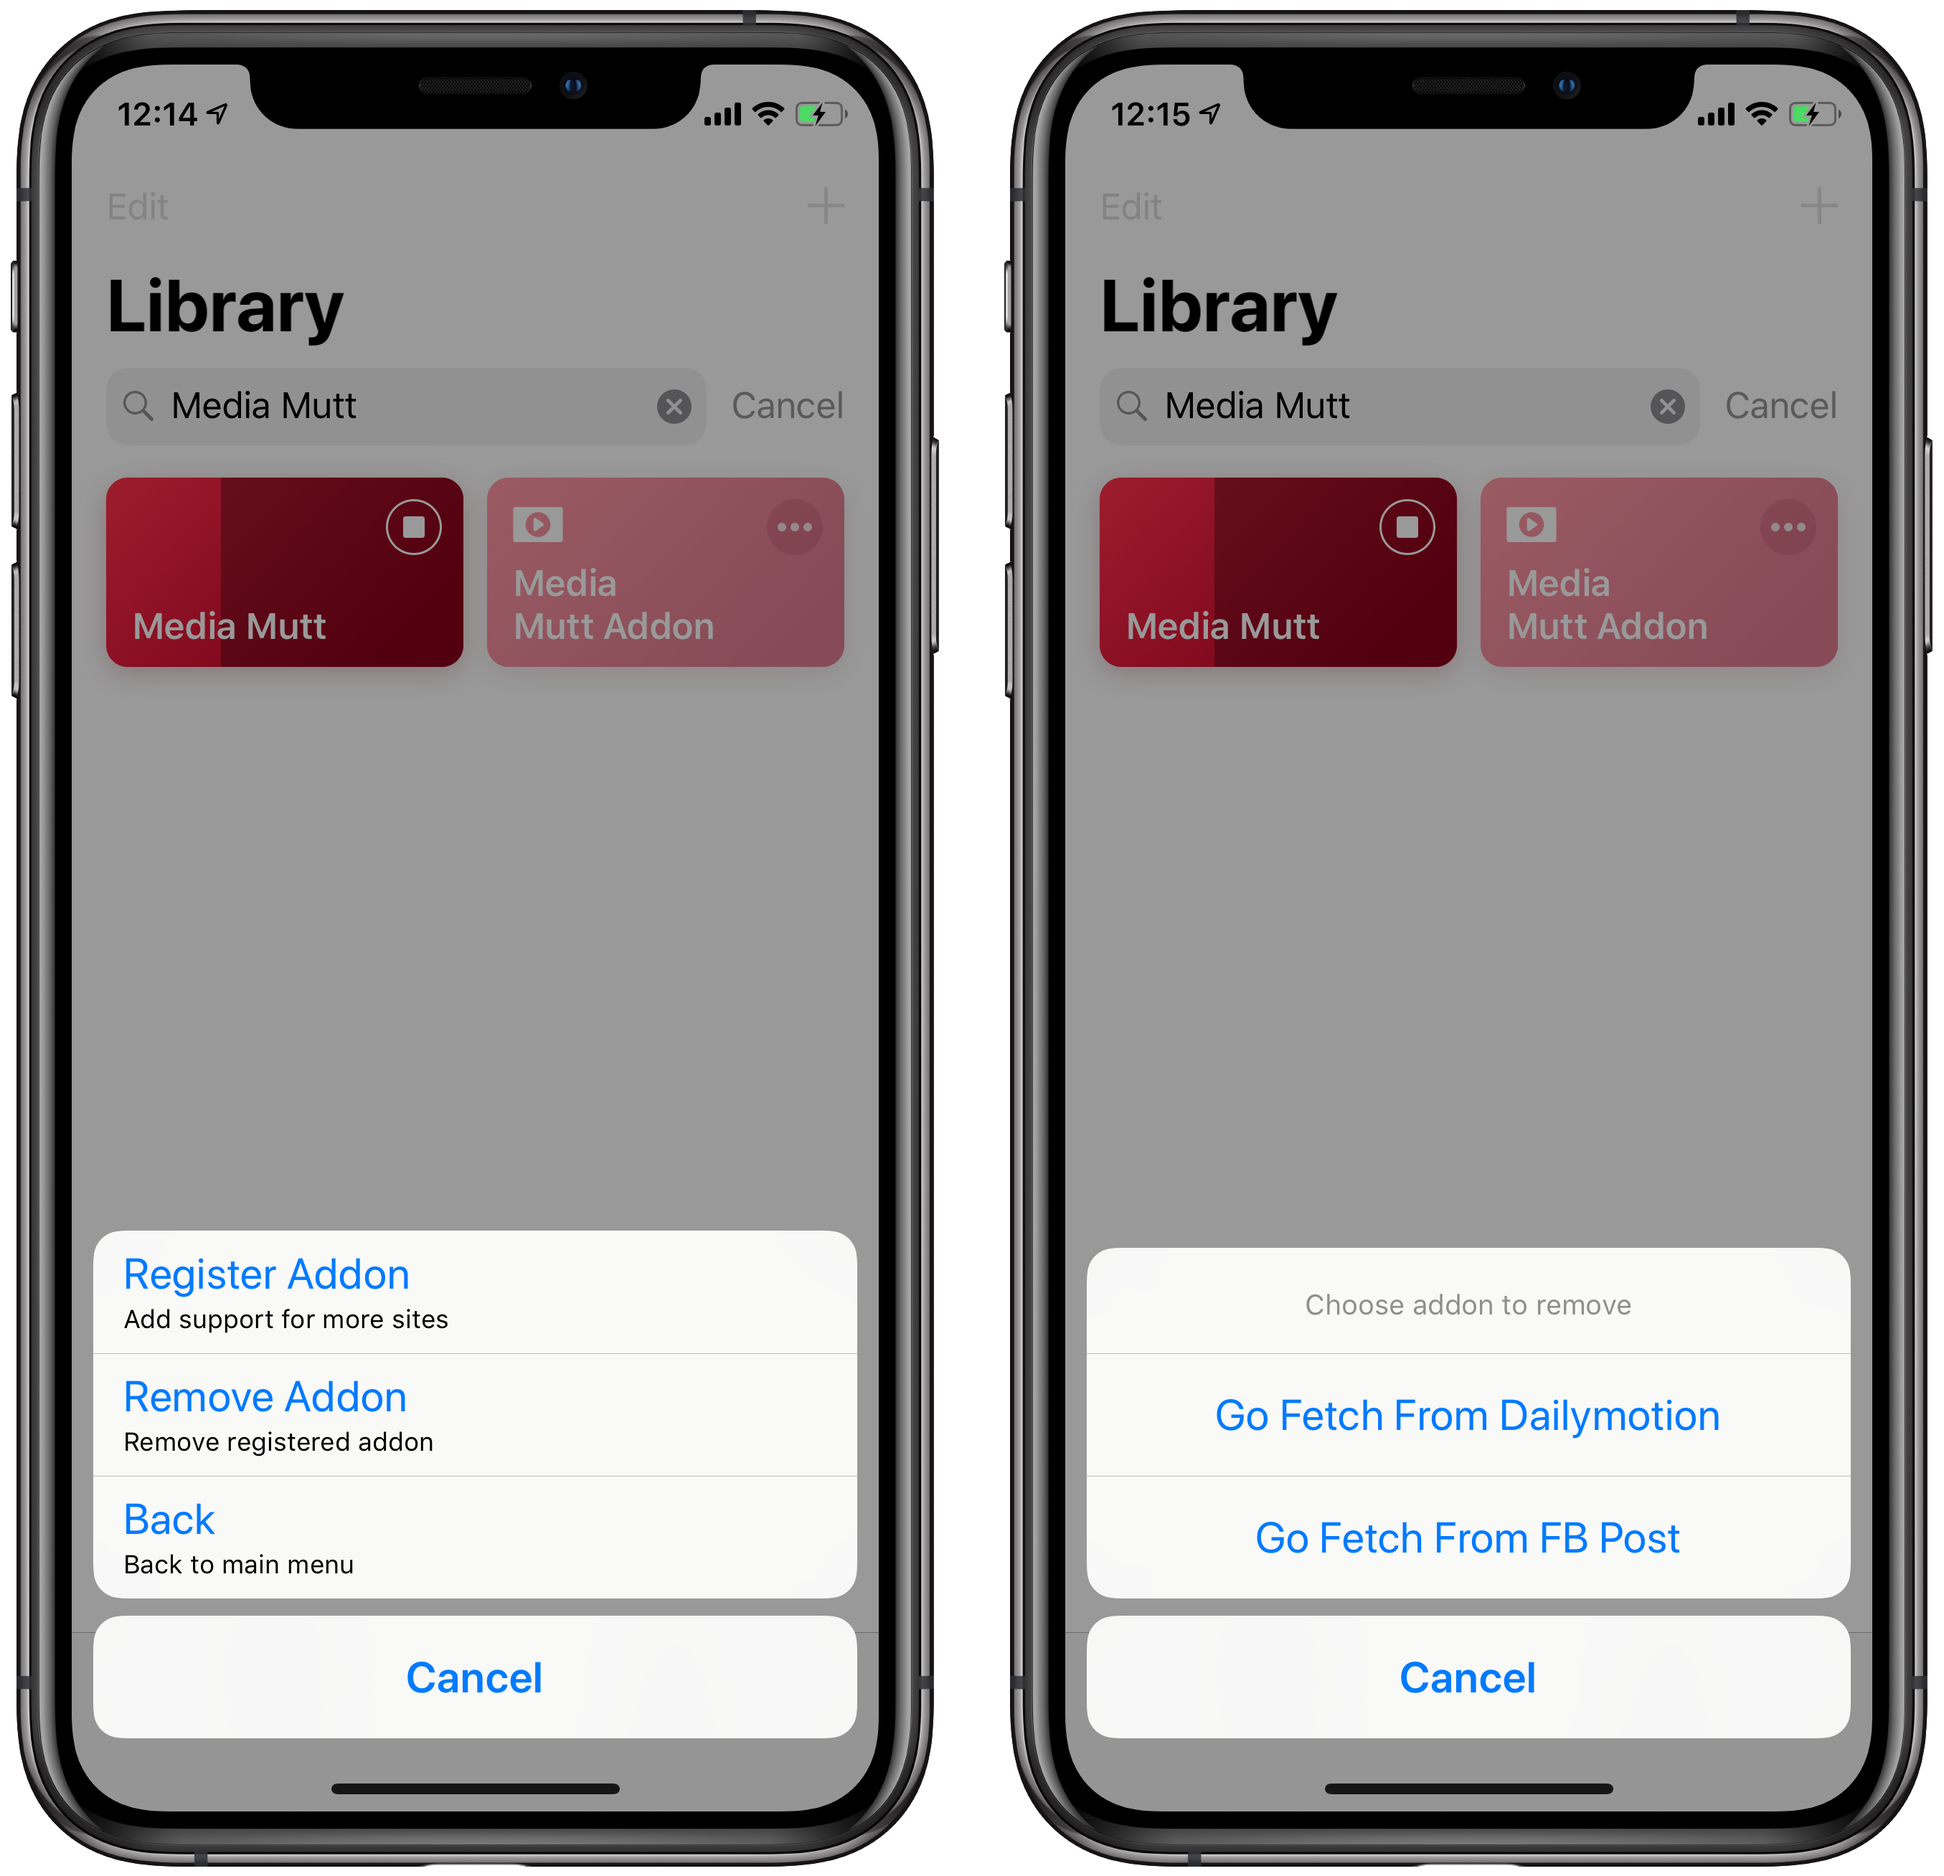
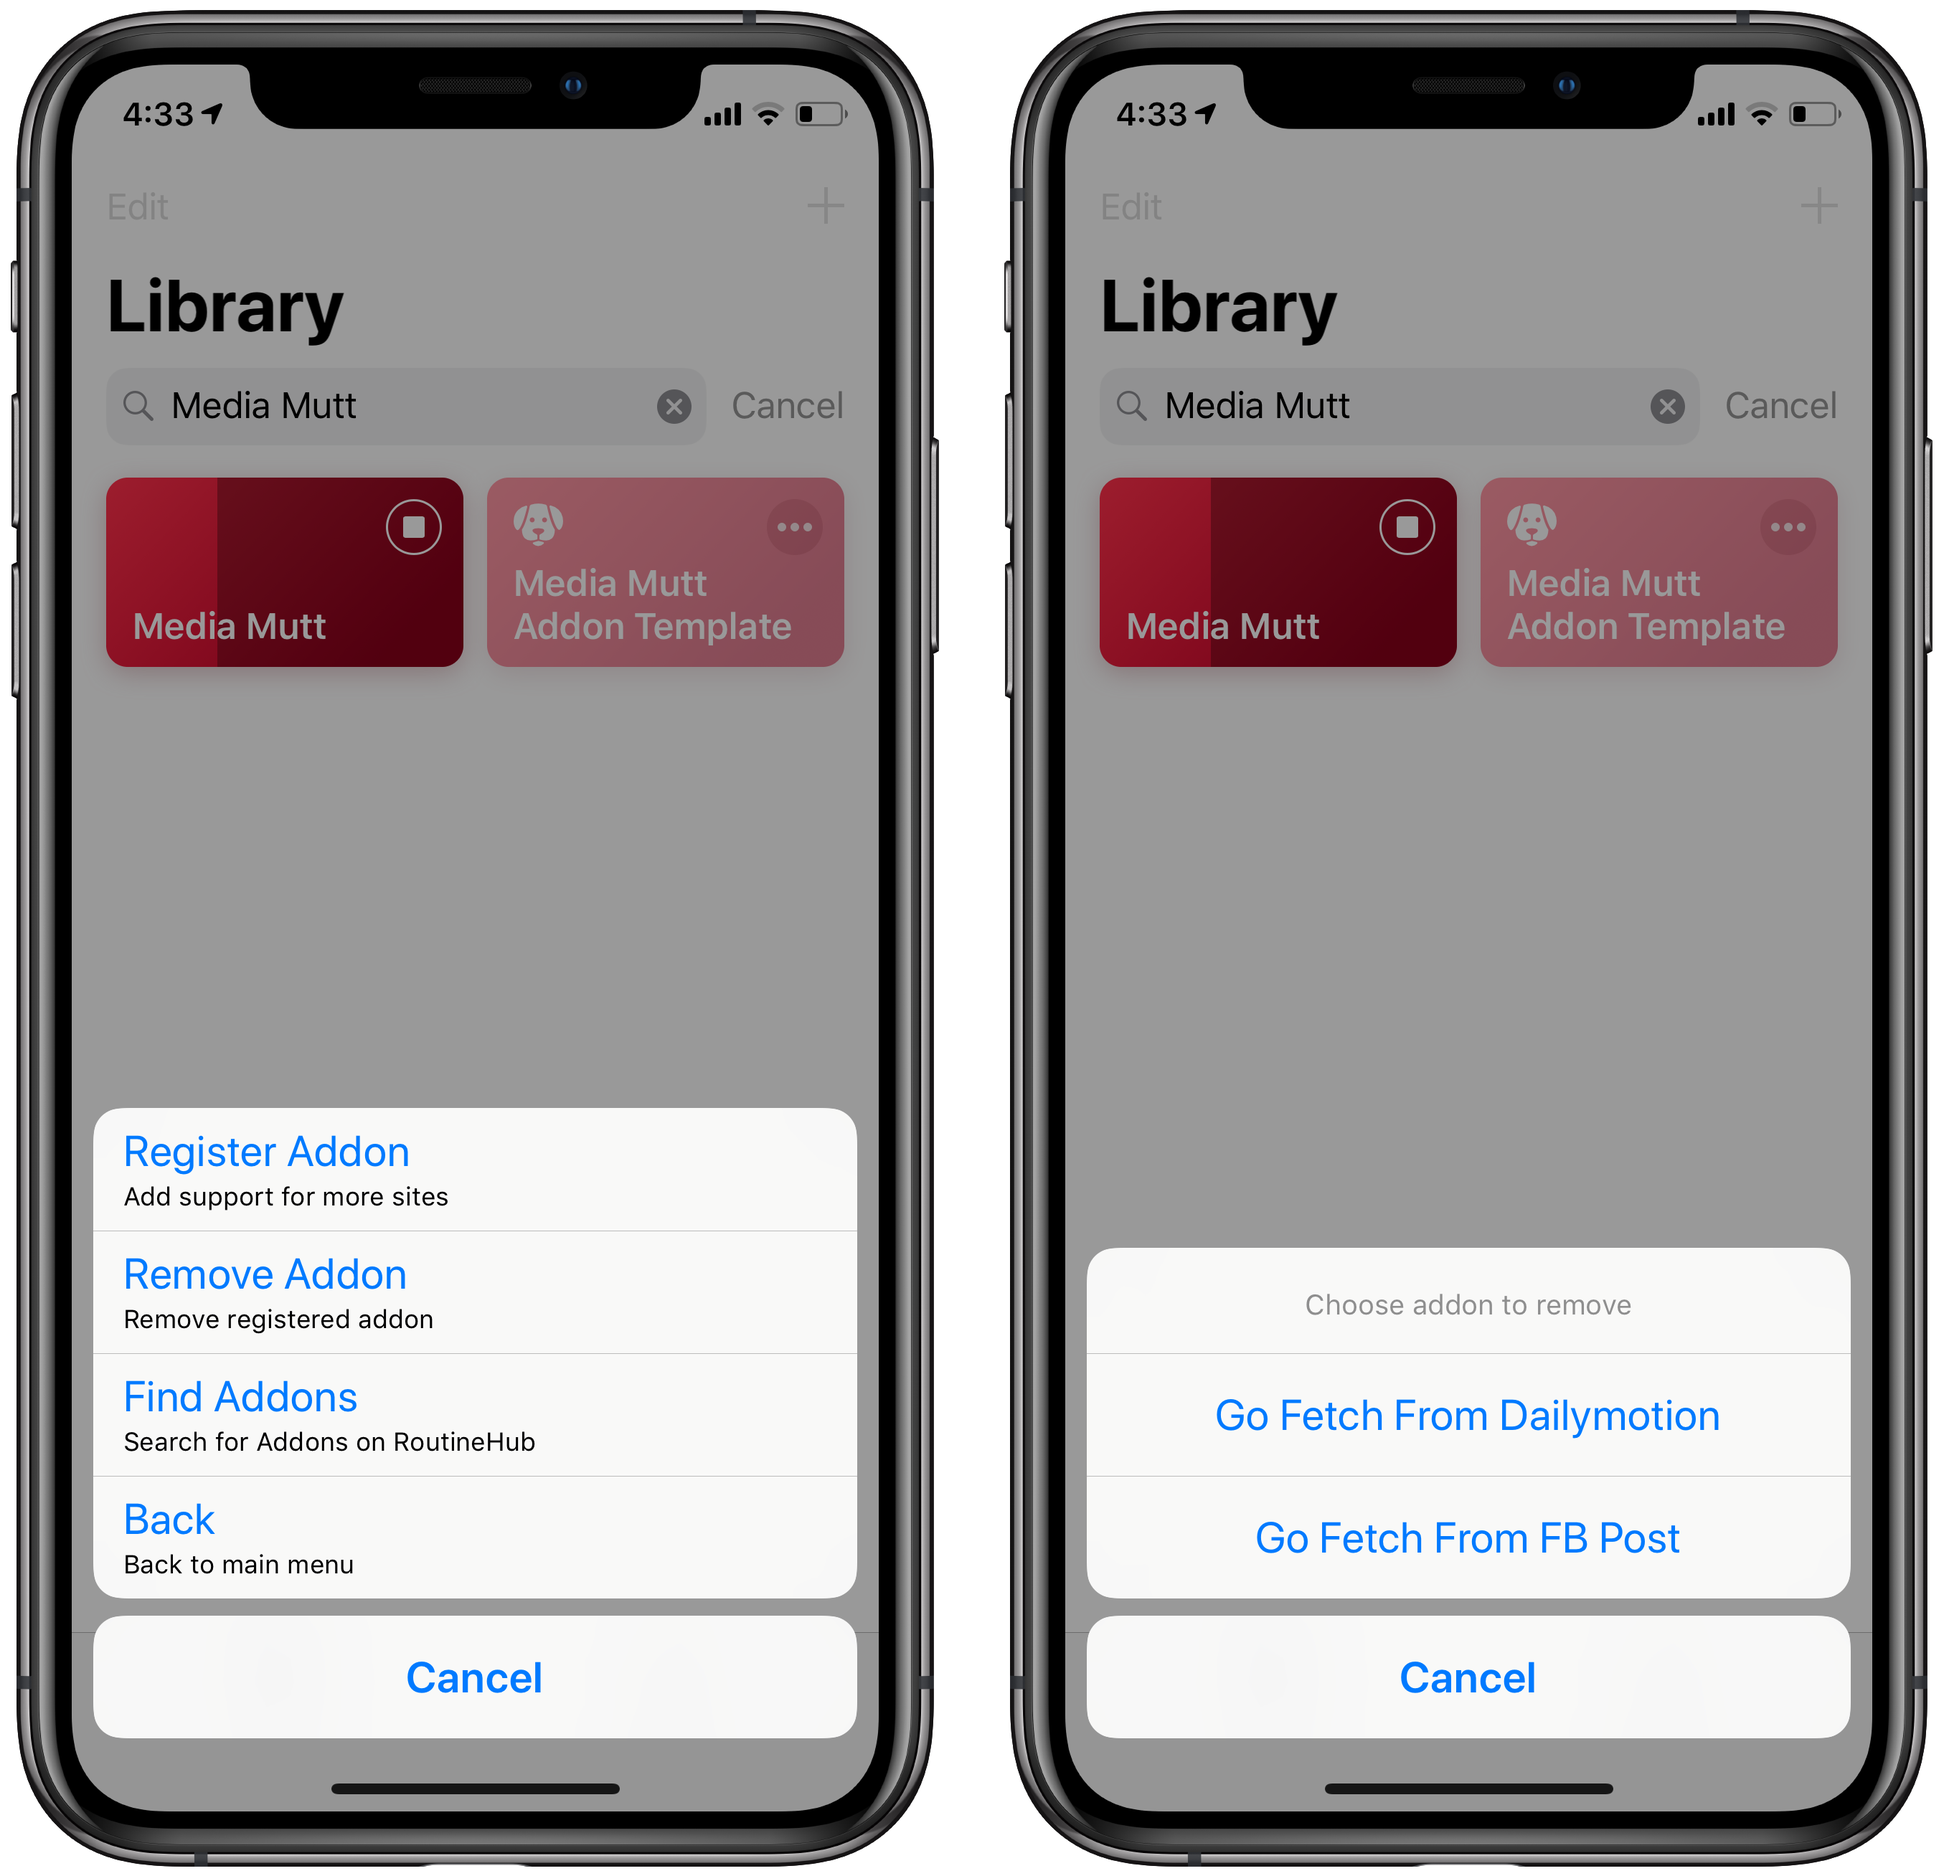
MediaMutt v1.1.0

diff --git a/MediaMutt/docs/index.md b/MediaMutt/docs/index.md
@@ -34,7 +34,7 @@ If you are interested in authoring addons, check out the [authoring guide](makin
 
 ## Credits
 
-* I wouldn't have been able to build this complex shortcut without [ScPL](https://scpl.dev). Well I could but it would've taken me months. This took less than 2 werks.
+* I wouldn't have been able to build this complex shortcut without [ScPL](https://scpl.dev). Well I could but it would've taken me months. This took less than 2 weeks.
 * Icons from [https://fa2png.io]
 * YouTube Downloading method - https://tyrrrz.me/Blog/Reverse-engineering-YouTube
 * Audio/Video merging: http://www.fileconverto.com/add-music-to-video/

diff --git a/MediaMutt/docs/changelog.md b/MediaMutt/docs/changelog.md
@@ -1,0 +1,11 @@
+# Media Mutt Changelog
+
+
+* 1.1.0
+  - Add `Find Addons` item under Addons
+
+* 1.0.1
+  - Removed Contacts access requirement
+
+* 1.0.0
+  - Initial Release
